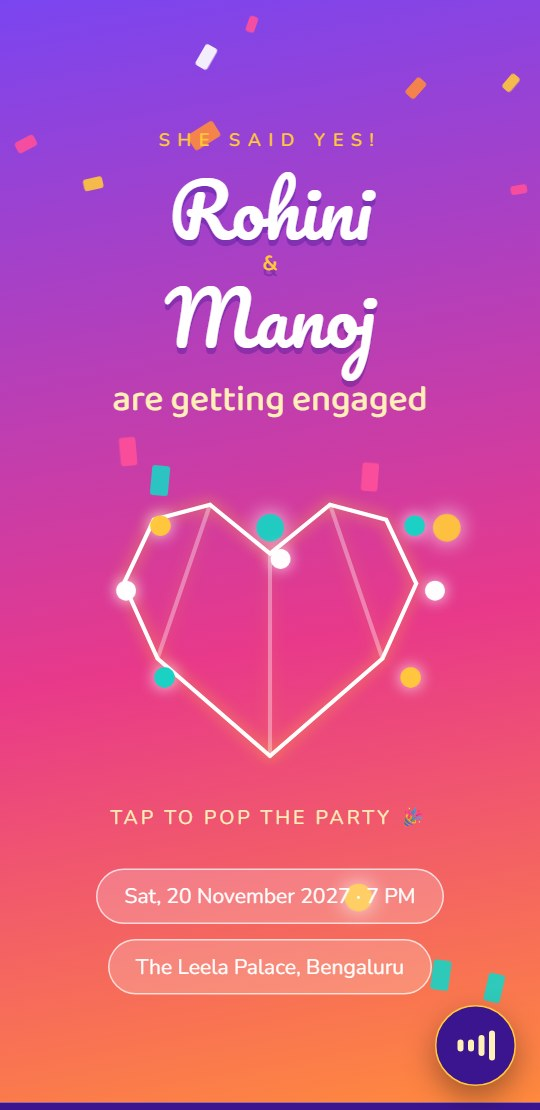
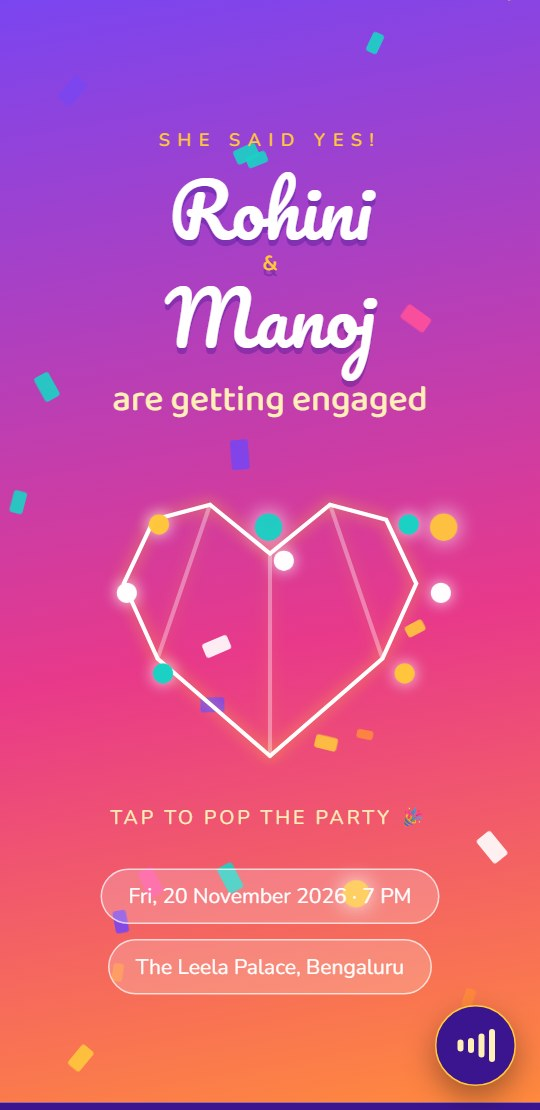
Confetti Engagement: correct date to Fri, 20 Nov 2026 and refresh preview images

diff --git a/confetti-engagement/index.html b/confetti-engagement/index.html
@@ -4,12 +4,12 @@
 <meta charset="UTF-8">
 <meta name="viewport" content="width=device-width, initial-scale=1.0">
 <title>Rohini &amp; Manoj Are Getting Engaged — Engagement Invitation</title>
-<meta name="description" content="Rohini and Manoj invite you to their engagement on Saturday, 20 November 2027, 7:00 PM at The Leela Palace, Bengaluru.">
+<meta name="description" content="Rohini and Manoj invite you to their engagement on Friday, 20 November 2026, 7:00 PM at The Leela Palace, Bengaluru.">
 <!-- WhatsApp / social link preview -->
 <meta property="og:type" content="website">
 <meta property="og:site_name" content="Invitashion">
 <meta property="og:title" content="Party time! 🎉 Rohini &amp; Manoj are getting engaged">
-<meta property="og:description" content="Engagement celebration · Sat, 20 November 2027 · 7 PM · Bengaluru. Slide two hearts together to open your invitation.">
+<meta property="og:description" content="Engagement celebration · Fri, 20 November 2026 · 7 PM · Bengaluru. Slide two hearts together to open your invitation.">
 <meta property="og:url" content="https://invitashion.online/confetti-engagement/">
 <meta property="og:image" content="https://invitashion.online/confetti-engagement/og.jpg">
 <meta property="og:image:secure_url" content="https://invitashion.online/confetti-engagement/og.jpg">
@@ -253,7 +253,7 @@ footer small{display:block;margin-top:8px;color:var(--gold);letter-spacing:2px}
       </svg>
     </button>
     <div class="heart-hint">Tap to pop the party 🎉</div>
-    <div class="chips"><span>Sat, 20 November 2027 · 7 PM</span><span>The Leela Palace, Bengaluru</span></div>
+    <div class="chips"><span>Fri, 20 November 2026 · 7 PM</span><span>The Leela Palace, Bengaluru</span></div>
   </div>
 </header>
 
@@ -281,7 +281,7 @@ footer small{display:block;margin-top:8px;color:var(--gold);letter-spacing:2px}
     <div class="story-list">
       <div class="moment reveal"><div class="when">2020</div><h3>The wrong number</h3><p>Manoj texted a wrong number, got a meme back, and replied with a bigger one. Six weeks of memes later, they finally met.</p></div>
       <div class="moment reveal"><div class="when">2023</div><h3>The great road trip</h3><p>Bengaluru to Gokarna on a dodgy playlist, with beach shacks, bad singing and the first time we said "forever".</p></div>
-      <div class="moment reveal"><div class="when">January 2027</div><h3>The question</h3><p>In the middle of Rohini's favourite chaat stall, with the whole gang hiding behind the golgappas. She said yes before he finished the sentence.</p></div>
+      <div class="moment reveal"><div class="when">January 2026</div><h3>The question</h3><p>In the middle of Rohini's favourite chaat stall, with the whole gang hiding behind the golgappas. She said yes before he finished the sentence.</p></div>
     </div>
   </div>
 </section>
@@ -312,7 +312,7 @@ footer small{display:block;margin-top:8px;color:var(--gold);letter-spacing:2px}
   <div class="wrap">
     <div class="center reveal">
       <div class="kicker">The celebration</div>
-      <h2>Saturday, 20 November 2027</h2>
+      <h2>Friday, 20 November 2026</h2>
     </div>
     <div class="plan-grid">
       <div class="card reveal">
@@ -330,7 +330,7 @@ footer small{display:block;margin-top:8px;color:var(--gold);letter-spacing:2px}
         <p>23 Old Airport Road, Kodihalli, Bengaluru 560008</p>
         <div class="btns">
           <a class="btn btn-navy" href="https://www.google.com/maps/search/?api=1&query=The+Leela+Palace+Bengaluru" target="_blank" rel="noopener">View map</a>
-          <a class="btn btn-gold" href="https://calendar.google.com/calendar/render?action=TEMPLATE&text=Rohini+%26+Manoj%27s+Engagement&dates=20271120T133000Z/20271120T173000Z&details=Ring+ceremony+at+8+PM%2C+dinner+%26+dancing+after.+Invitation%3A+https%3A%2F%2Finvitashion.online%2Fconfetti-engagement%2F&location=The+Leela+Palace%2C+Old+Airport+Road%2C+Bengaluru" target="_blank" rel="noopener">Google Calendar</a>
+          <a class="btn btn-gold" href="https://calendar.google.com/calendar/render?action=TEMPLATE&text=Rohini+%26+Manoj%27s+Engagement&dates=20261120T133000Z/20261120T173000Z&details=Ring+ceremony+at+8+PM%2C+dinner+%26+dancing+after.+Invitation%3A+https%3A%2F%2Finvitashion.online%2Fconfetti-engagement%2F&location=The+Leela+Palace%2C+Old+Airport+Road%2C+Bengaluru" target="_blank" rel="noopener">Google Calendar</a>
           <a class="btn" href="engagement.ics" download>Apple / Outlook</a>
         </div>
       </div>
@@ -371,7 +371,7 @@ footer small{display:block;margin-top:8px;color:var(--gold);letter-spacing:2px}
 
 <footer>
   <div class="names">Rohini &amp; Manoj</div>
-  <p>20 November 2027 · Bengaluru</p>
+  <p>20 November 2026 · Bengaluru</p>
   <small>#RohiniSaidYes</small>
 </footer>
 
@@ -571,8 +571,8 @@ document.querySelectorAll('.q').forEach(q => {
   }));
 });
 
-/* ---------- Countdown to 20 November 2027, 7:00 PM IST ---------- */
-const target = new Date('2027-11-20T19:00:00+05:30').getTime();
+/* ---------- Countdown to 20 November 2026, 7:00 PM IST ---------- */
+const target = new Date('2026-11-20T19:00:00+05:30').getTime();
 const pad2 = n => String(n).padStart(2, '0');
 function tick() {
   const s = Math.max(0, Math.floor((target - Date.now()) / 1000));

diff --git a/designs/index.html b/designs/index.html
@@ -200,7 +200,7 @@ footer{padding-bottom:calc(22px + env(safe-area-inset-bottom))!important}
           </div>
         </article>
         <article class="tpl">
-          <a class="tpl-phone" href="../confetti-engagement/" aria-label="Open the Confetti Engagement demo"><img src="../confetti-engagement/preview.jpg?v=2" alt="Confetti Engagement invitation on a phone" width="540" height="1110" loading="lazy"><span class="tpl-view">▶ View</span></a>
+          <a class="tpl-phone" href="../confetti-engagement/" aria-label="Open the Confetti Engagement demo"><img src="../confetti-engagement/preview.jpg?v=3" alt="Confetti Engagement invitation on a phone" width="540" height="1110" loading="lazy"><span class="tpl-view">▶ View</span></a>
           <div class="tpl-body">
             <h3>Confetti Engagement</h3>
             <p>Slide two hearts together to set off the confetti, then a fun love story, guess-who polls and an upbeat party-pop track.</p>
